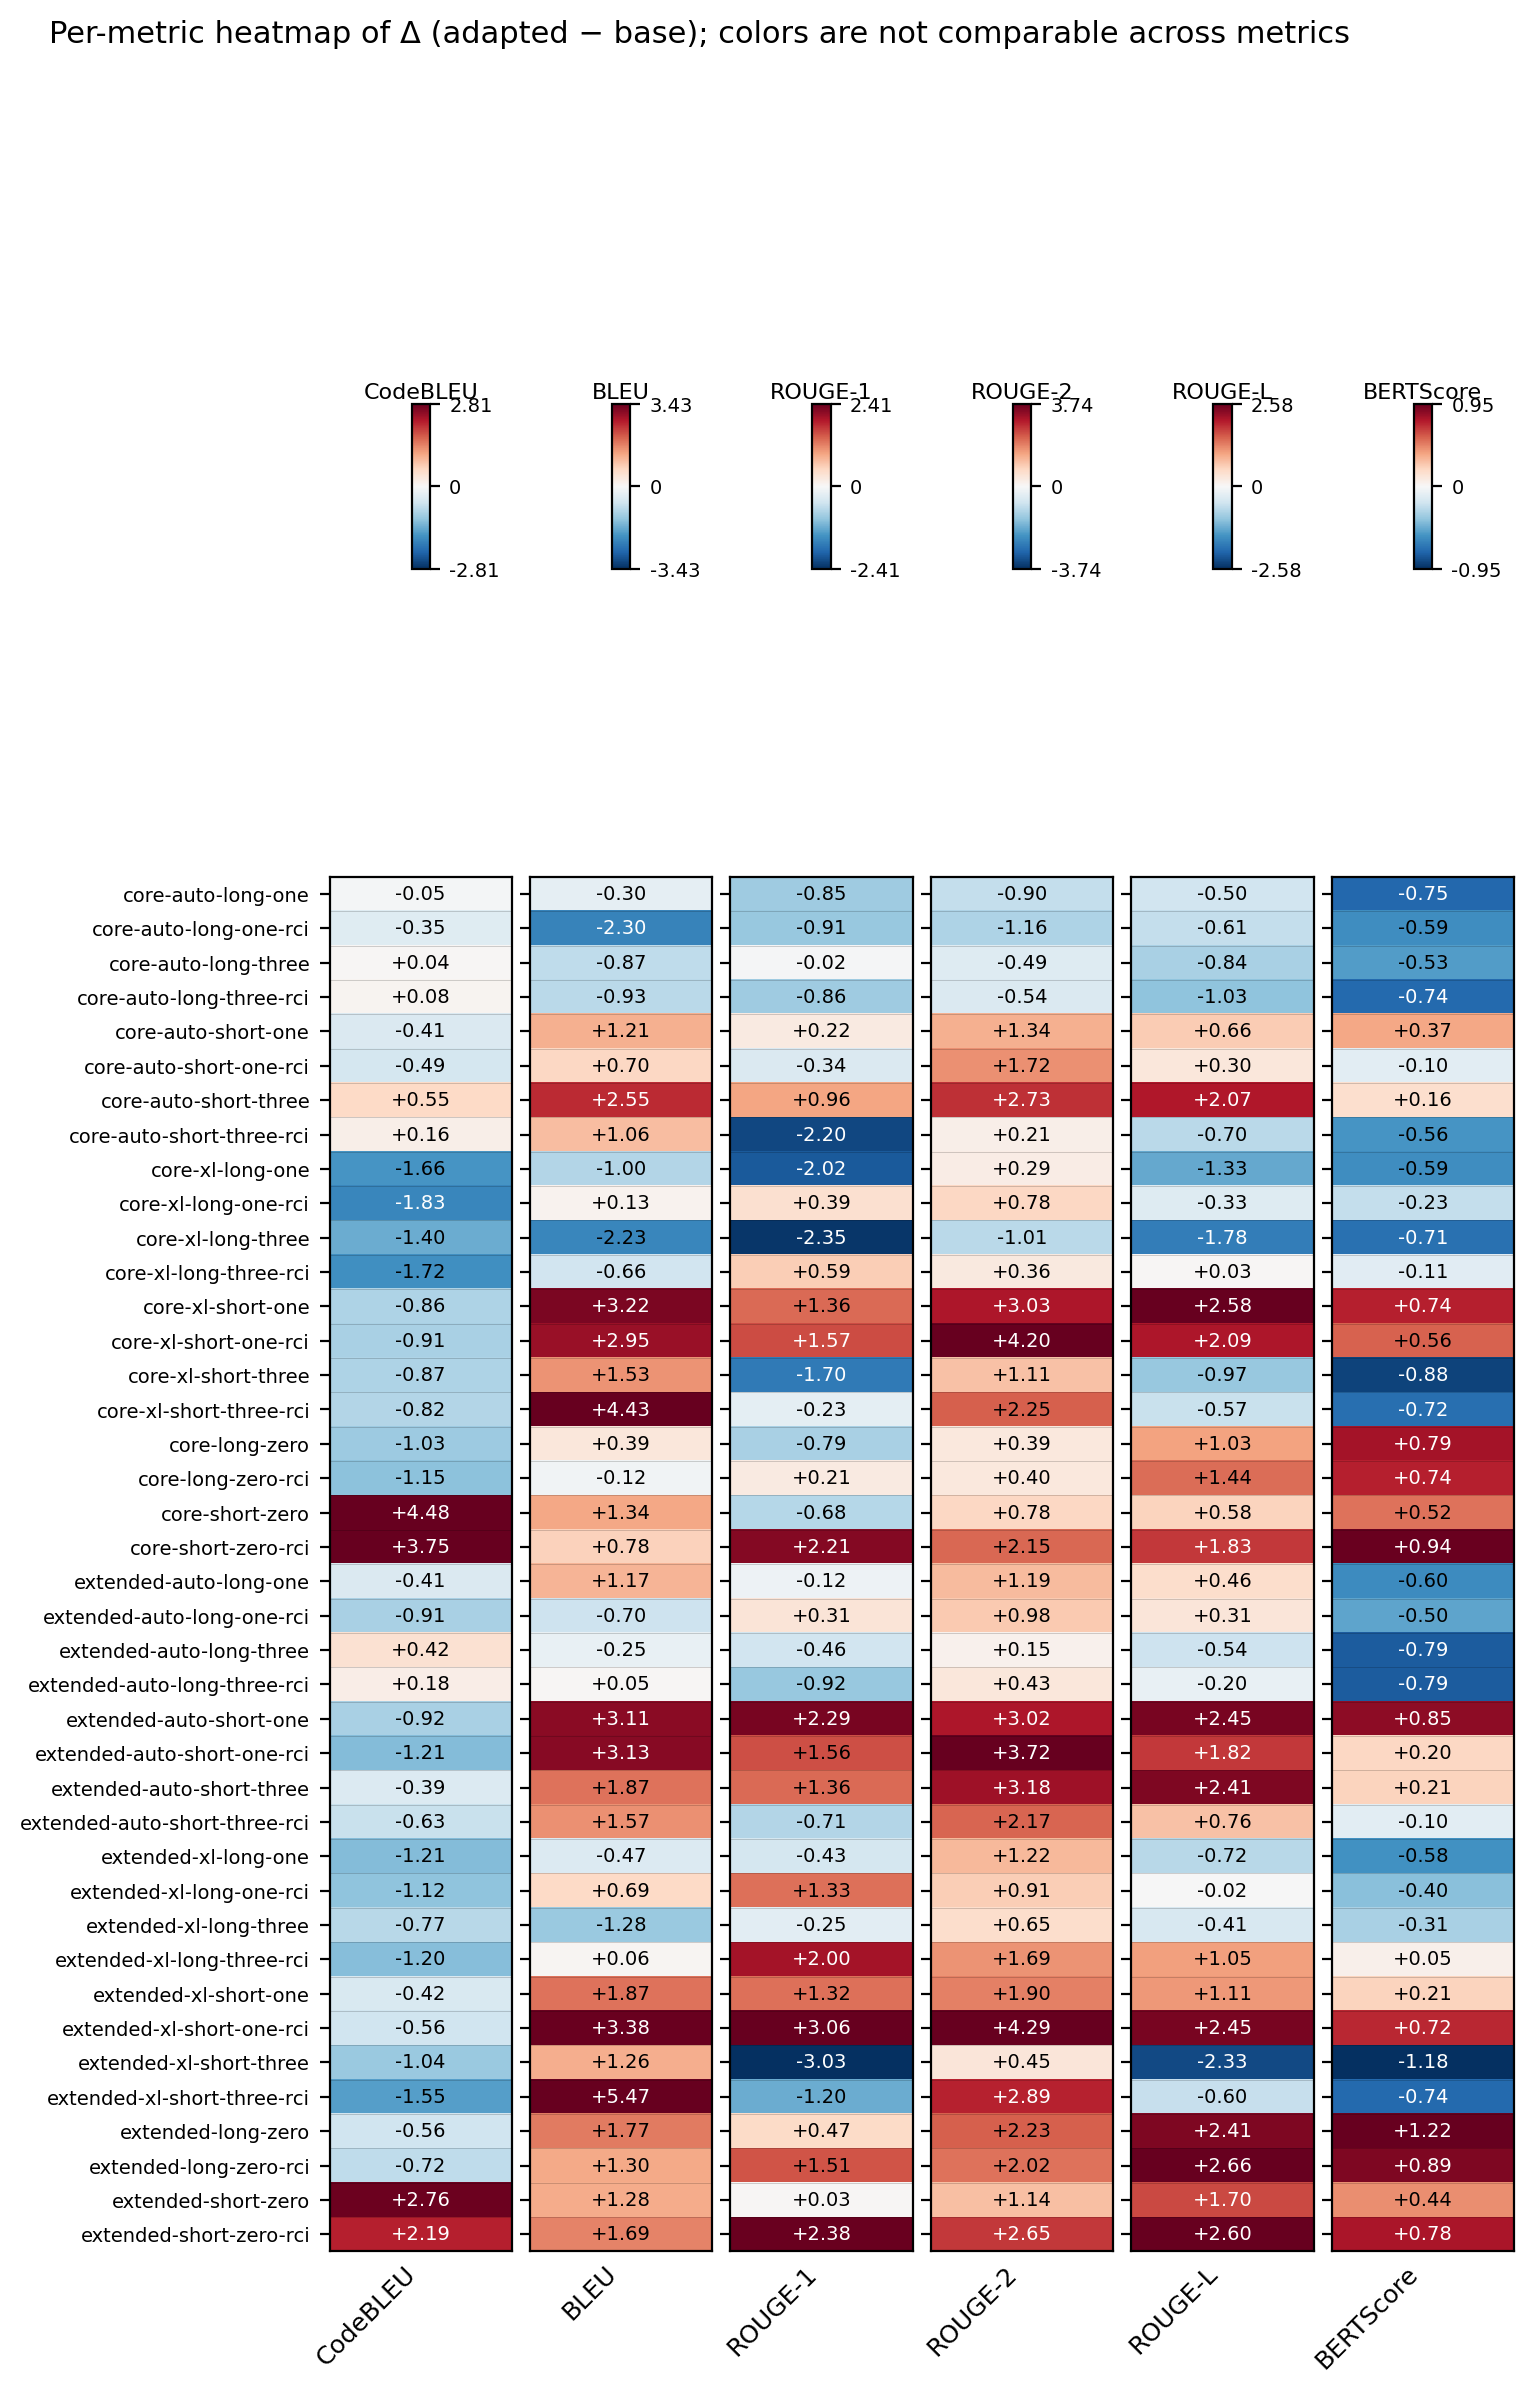
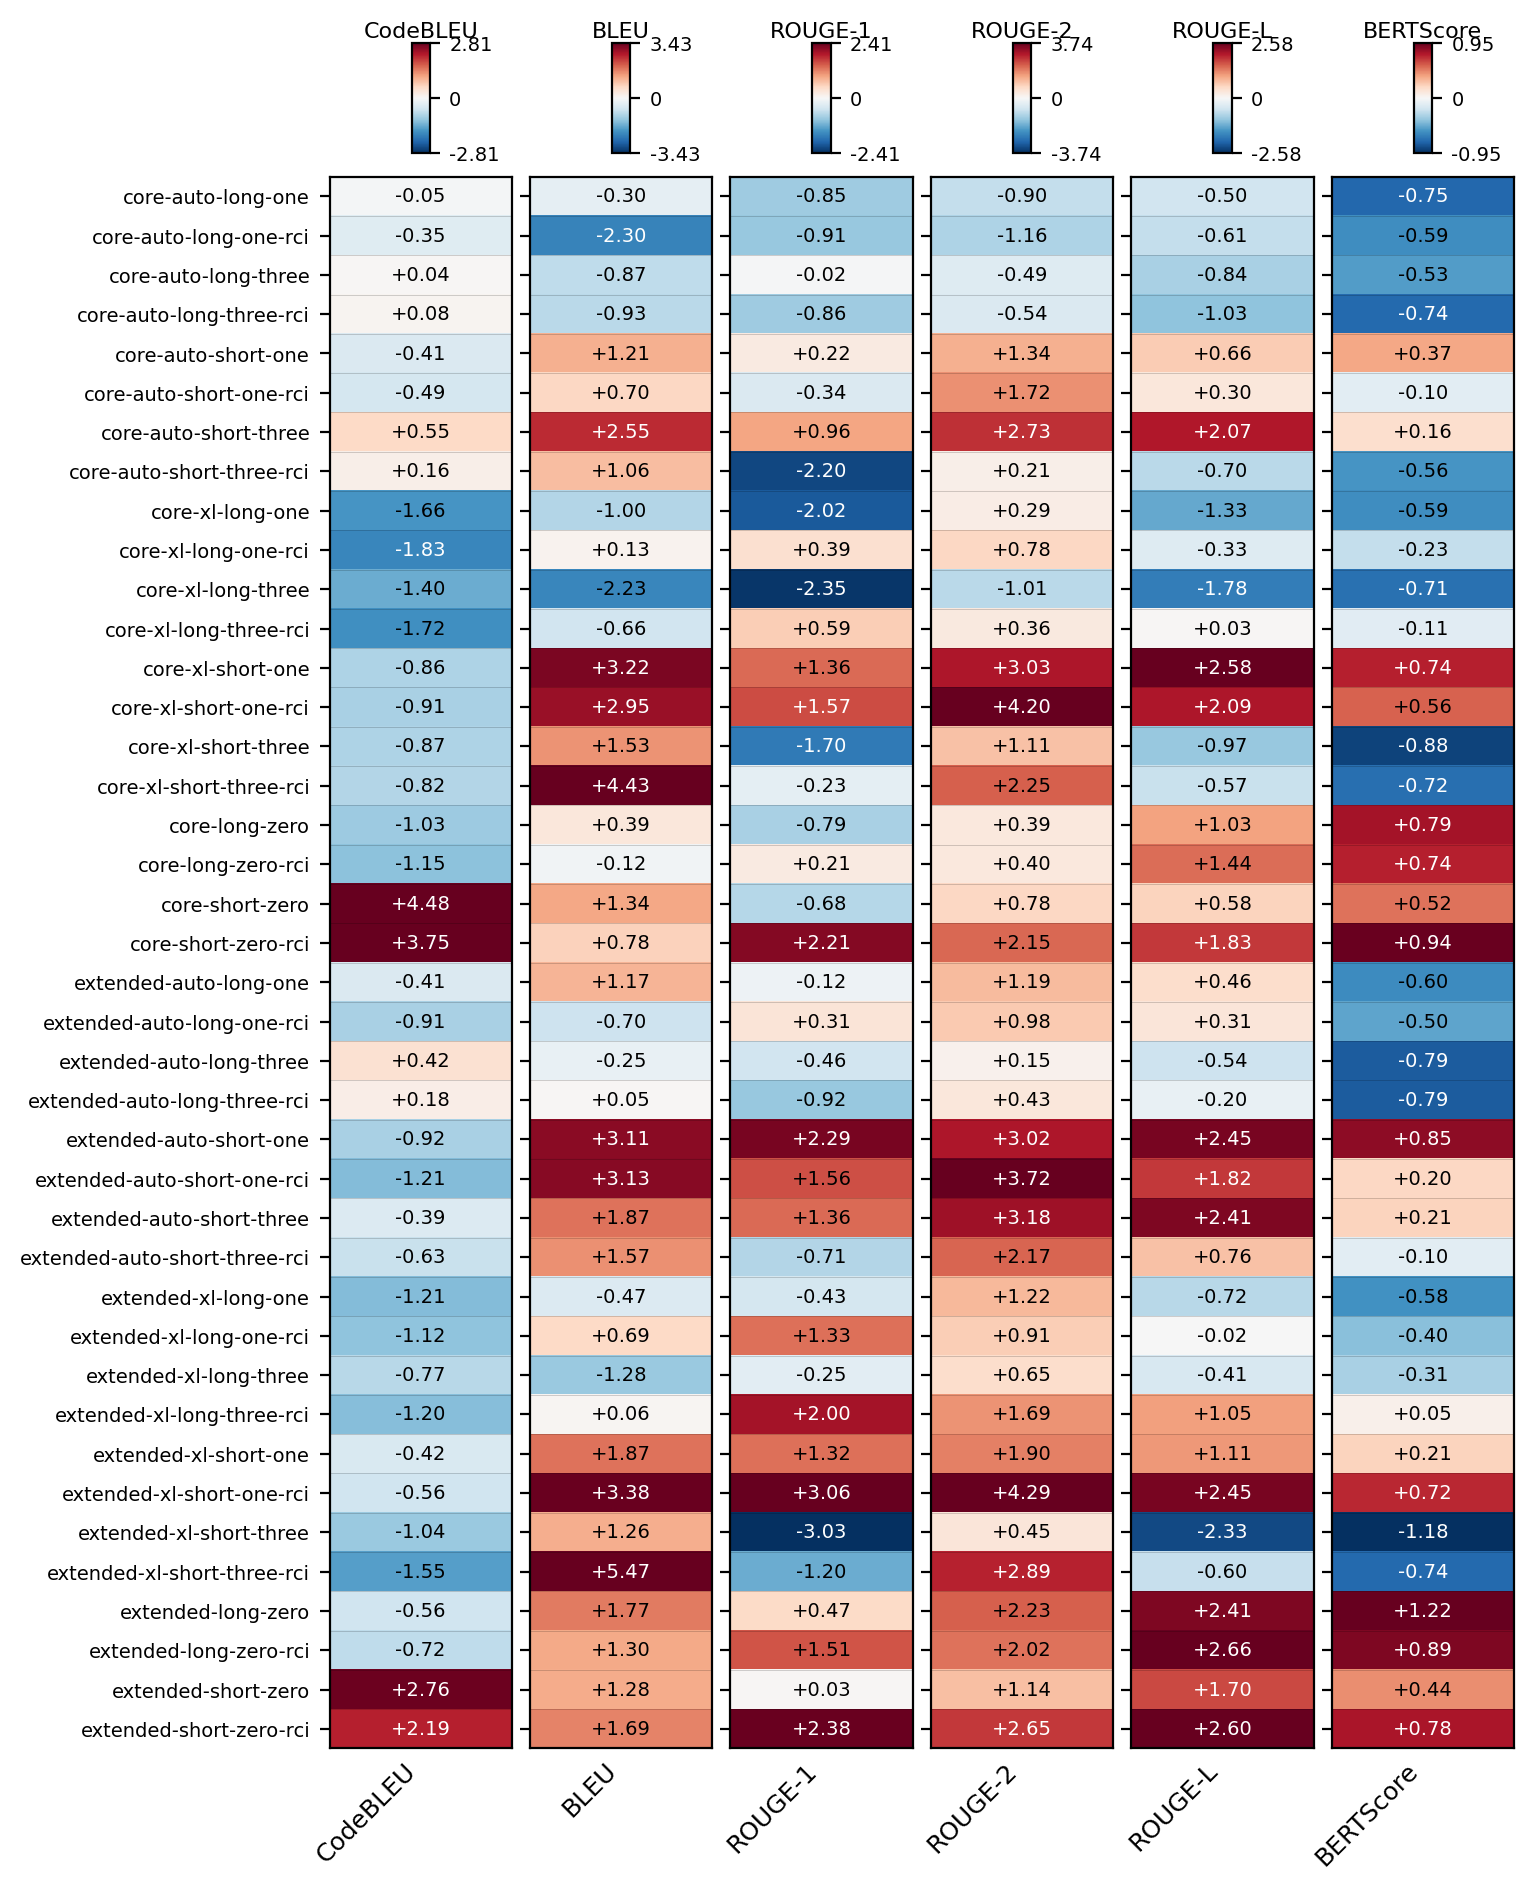
heatmap impl checkpoint

diff --git a/results/evaluation/plots/heatmap_plot.py b/results/evaluation/plots/heatmap_plot.py
@@ -5,6 +5,7 @@ Per-column heatmap for experiment deltas (adapted − base).
 Update:
 - Color scales stay ABOVE each column, but are now THIN, VERTICAL bars.
 - Columns made thinner to reduce overall figure width.
+- NEW: tighter vertical spacing (smaller top margin, smaller hspace, shorter top row).
 
 CSV format:
     test_name,CodeBLEU,BLEU,ROUGE-1,ROUGE-2,ROUGE-L,BERTScore
@@ -53,18 +54,23 @@ TICK_LABEL_FONTSIZE = 7
 TITLE = "Per-metric heatmap of Δ (adapted − base); colors are not comparable across metrics"
 SUPTITLES = False
 
-# —— layout sizing (tuned to be narrower) ——
-HEIGHT_PER_ROW = 0.28
+# —— layout sizing (narrow) ——
+HEIGHT_PER_ROW = 0.20
 BASE_FIG_H = 1.5
-WIDTH_PER_COL = 1.25   # ↓ narrower columns; try 1.1–1.3 if you need thinner
+WIDTH_PER_COL = 1.25
 BASE_FIG_W = 0.9
-GRID_WSPACE = 0.10     # small spacing between columns
+GRID_WSPACE = 0.10     # spacing between columns
 
 # —— thin vertical colorbar (above each column) ——
 CBAR_REL_WIDTH = 0.10   # fraction of the top cell width (0–1). Smaller = thinner bar.
-CBAR_REL_HEIGHT = 0.3  # fraction of the top cell height (0–1)
+CBAR_REL_HEIGHT = 0.70  # fraction of the top cell height (0–1)
 CBAR_TICK_FONTSIZE = 7
 CBAR_TITLE_FONTSIZE = 8
+
+# —— NEW: tighter vertical spacing controls ——
+TOP_MARGIN = 0.96       # was 0.90; move axes area up under the title
+GRID_HSPACE_ROWS = 0.00 # was 0.12; reduce gap between colorbars row and heatmap row
+TOPROW_HEIGHT_RATIO = 0.1  # was 0.40; make the top row shorter
 # ==================================
 
 
@@ -119,8 +125,13 @@ def draw_per_column_heatmap(df: pd.DataFrame):
 
     fig = plt.figure(figsize=(fig_w, fig_h), dpi=DPI, constrained_layout=False)
     # 2 rows: row 0 = vertical colorbars area; row 1 = heatmap tiles
-    gs = GridSpec(nrows=2, ncols=n_cols, height_ratios=[0.40, 1.0],  # give the top row a bit of height
-                  hspace=0.12, wspace=GRID_WSPACE, figure=fig)
+    gs = GridSpec(
+        nrows=2, ncols=n_cols,
+        height_ratios=[TOPROW_HEIGHT_RATIO, 1.0],  # <<< SHRUNK TOP ROW
+        hspace=GRID_HSPACE_ROWS,                   # <<< LESS GAP BETWEEN ROWS
+        wspace=GRID_WSPACE,
+        figure=fig
+    )
 
     for j, metric in enumerate(METRICS):
         # — Heatmap cell (bottom row) —
@@ -131,12 +142,8 @@ def draw_per_column_heatmap(df: pd.DataFrame):
         norm = TwoSlopeNorm(vmin=-half, vcenter=0.0, vmax=half)
 
         im = ax.imshow(
-            col_vals,
-            cmap=CMAP,
-            norm=norm,
-            aspect="auto",
-            interpolation="nearest",
-            origin="upper",
+            col_vals, cmap=CMAP, norm=norm,
+            aspect="auto", interpolation="nearest", origin="upper",
         )
 
         # Row labels only on left-most col
@@ -165,8 +172,7 @@ def draw_per_column_heatmap(df: pd.DataFrame):
                 if abs(val) >= ANNOTATION_MIN_ABS:
                     ax.text(
                         0, r, ANNOTATION_FMT.format(val),
-                        ha="center", va="center",
-                        fontsize=ANNOT_FONTSIZE,
+                        ha="center", va="center", fontsize=ANNOT_FONTSIZE,
                         color="black" if abs(val) < half * 0.65 else "white",
                     )
 
@@ -175,15 +181,12 @@ def draw_per_column_heatmap(df: pd.DataFrame):
             ax.vlines(x=0.5, ymin=-0.5, ymax=n_rows - 0.5, colors="k", linewidth=0.6, alpha=0.4)
 
         # — Thin vertical colorbar ABOVE this column —
-        # Use a full-width "holder" axis (top row), then put a skinny inset inside it.
         holder_ax = fig.add_subplot(gs[0, j])
         holder_ax.axis("off")
-
-        # Inset occupies a fraction of the holder's width/height; centered.
         cax = inset_axes(
             holder_ax,
-            width=f"{CBAR_REL_WIDTH*100:.1f}%",   # as percentage of holder width
-            height=f"{CBAR_REL_HEIGHT*100:.1f}%", # as percentage of holder height
+            width=f"{CBAR_REL_WIDTH*100:.1f}%",   # % of holder width
+            height=f"{CBAR_REL_HEIGHT*100:.1f}%", # % of holder height
             loc="center"
         )
         cb = plt.colorbar(im, cax=cax, orientation="vertical")
@@ -192,23 +195,14 @@ def draw_per_column_heatmap(df: pd.DataFrame):
         cb.set_ticklabels([f"{-half:.2f}", "0", f"{half:.2f}"])
         cax.set_title(metric, fontsize=CBAR_TITLE_FONTSIZE, pad=2)
 
-    # Title and note
-    fig.suptitle(TITLE, fontsize=11, y=0.98)
-    if SUPTITLES:
-        fig.text(
-            0.5, 0.962,
-            "Note: Each metric column uses its own symmetric color scale centered at 0; "
-            "colors are not comparable across columns. Numbers are raw Δ.",
-            ha="center", va="top", fontsize=9
-        )
-
-    # Tight layout and save
+    # Tighter overall top margin (pull axes up under the title)
     plt.subplots_adjust(
-        top=0.90,
+        top=TOP_MARGIN,  # <<< was 0.90
         bottom=0.05,
         left=0.28 if FIG_LEFT_LABELS else 0.06,
         right=0.985
     )
+
     fig.savefig(OUTPUT_PATH, dpi=DPI, bbox_inches="tight")
     print(f"Saved figure to: {OUTPUT_PATH}")
 
